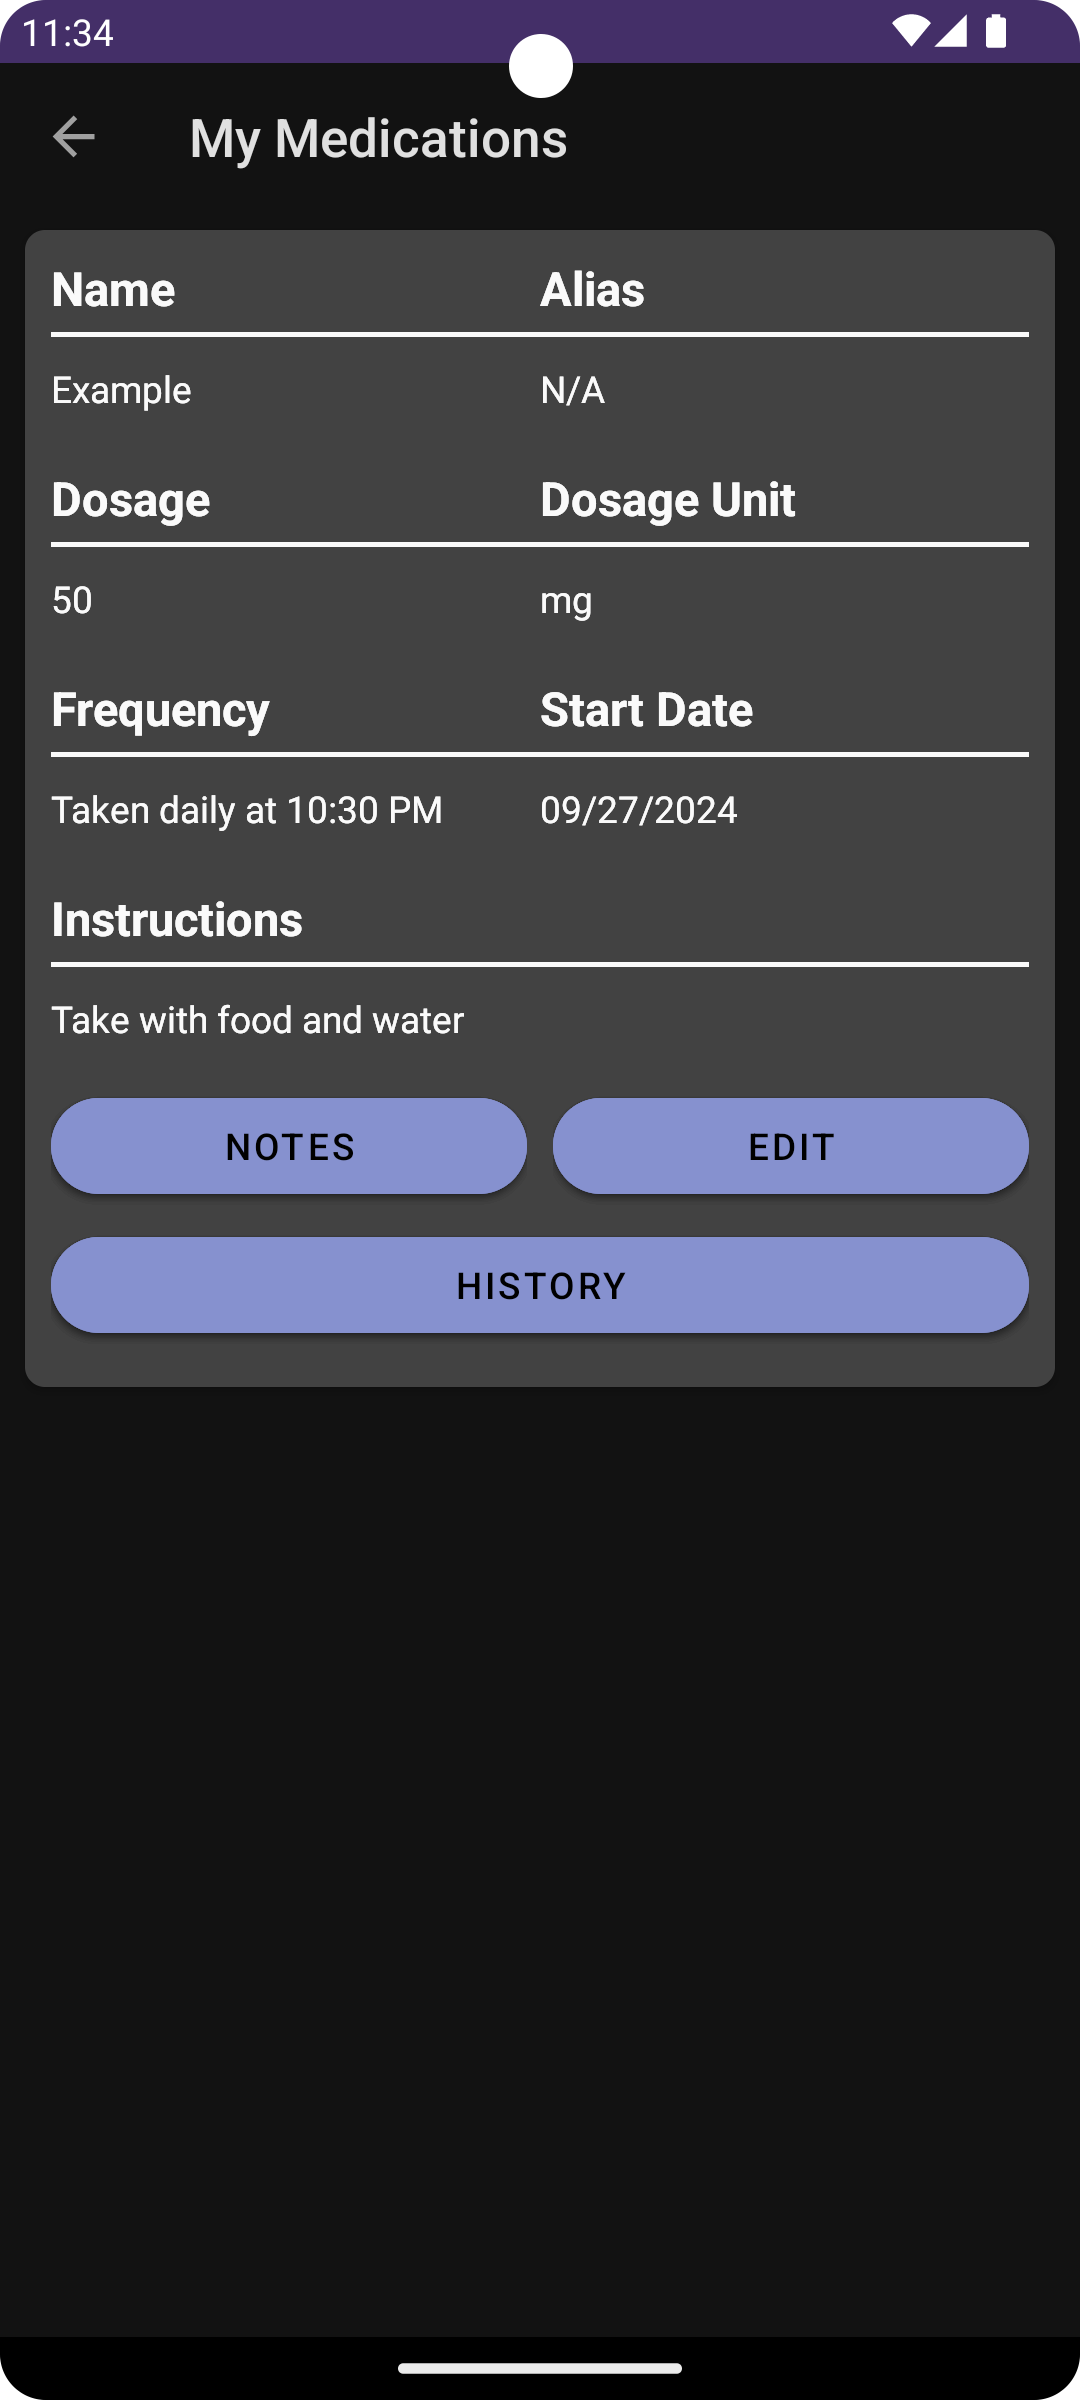
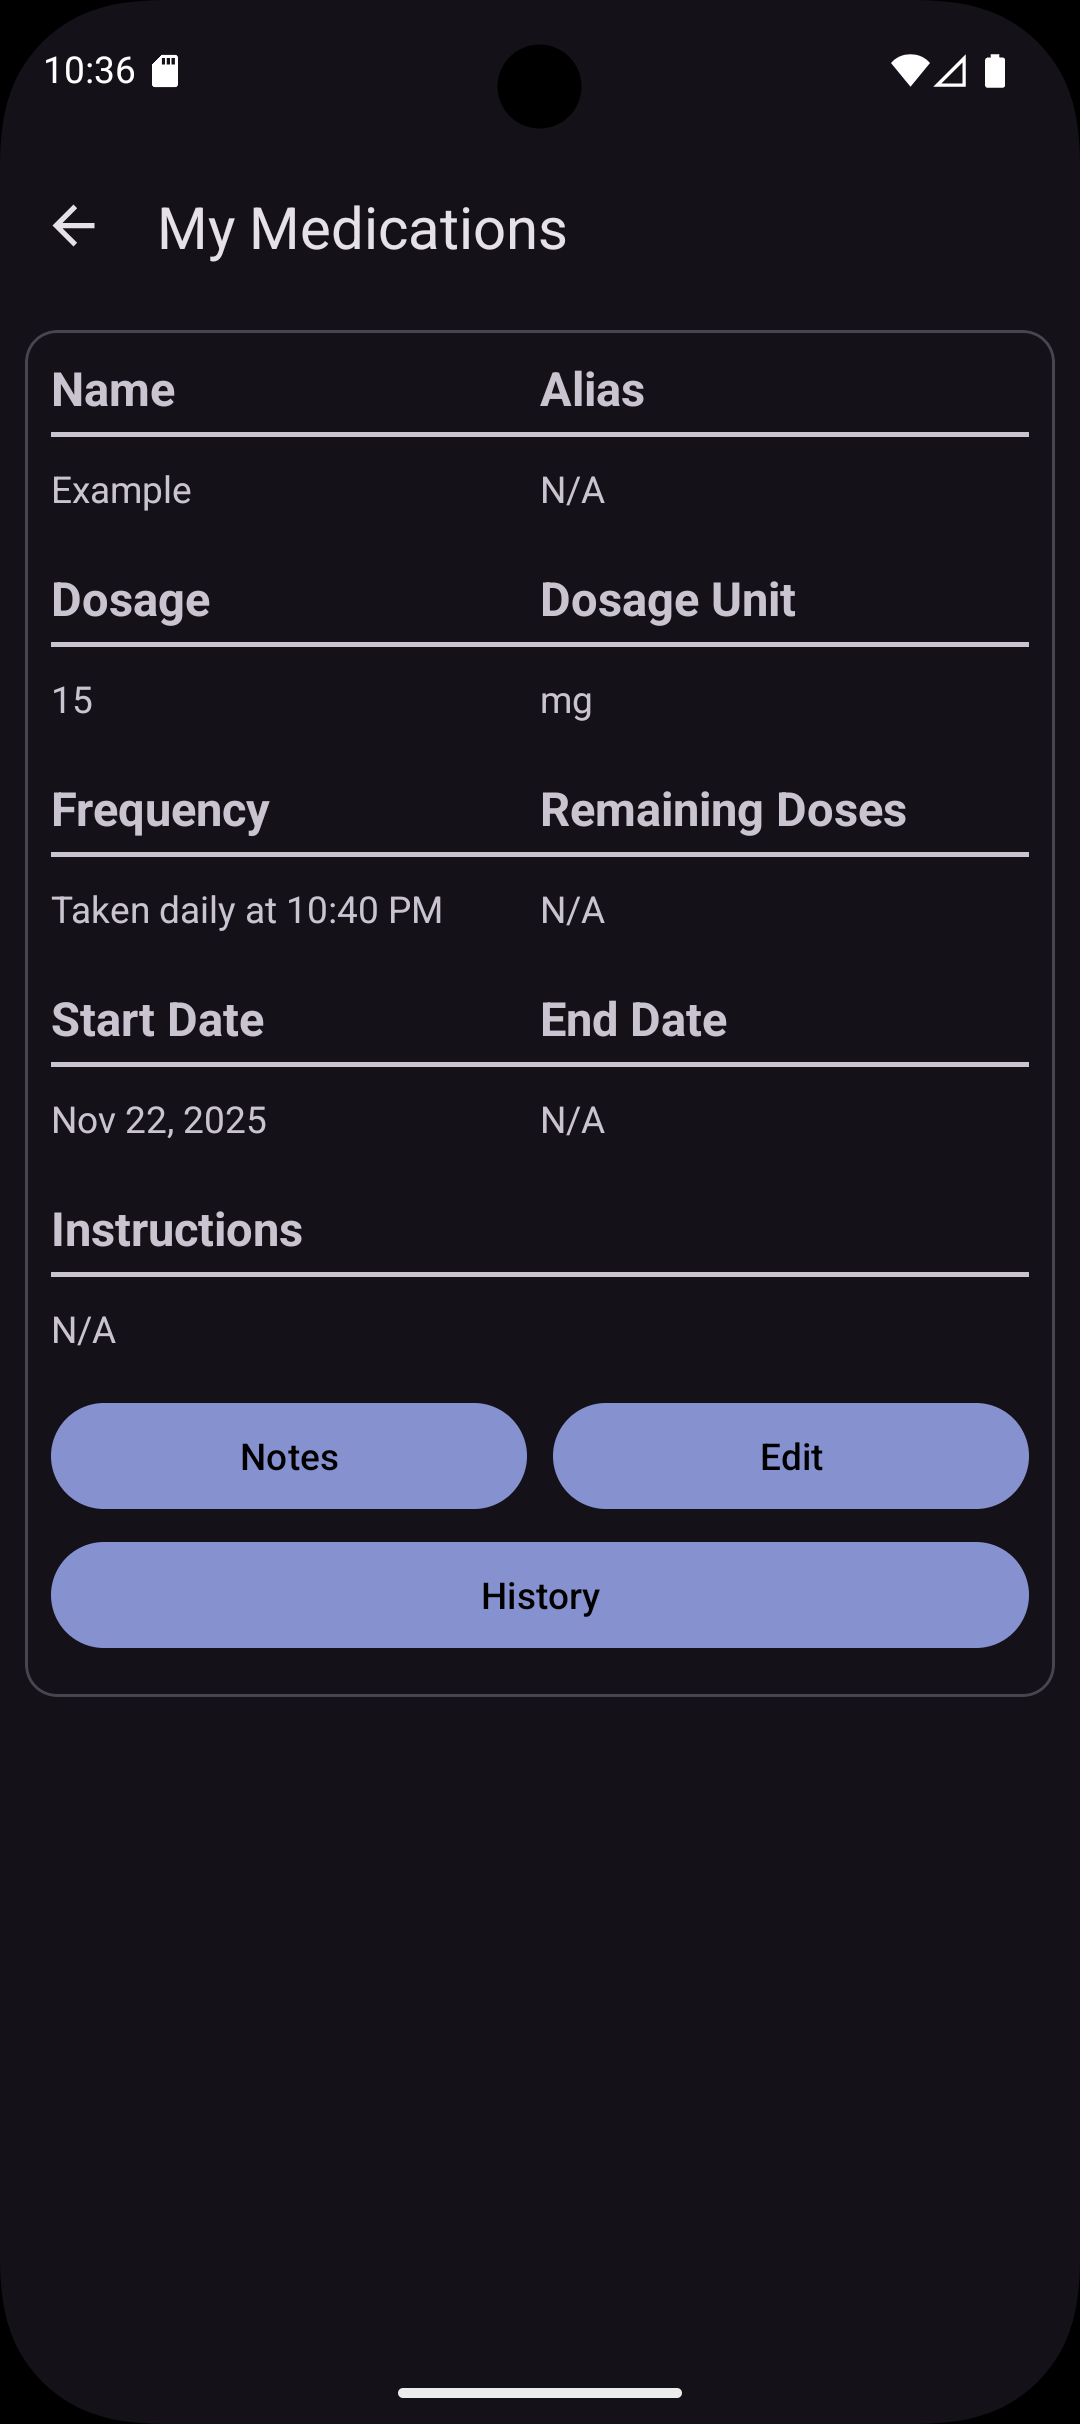
New screenshots

diff --git a/app/src/main/java/projects/medicationtracker/BaseActivity.java b/app/src/main/java/projects/medicationtracker/BaseActivity.java
@@ -1,18 +1,15 @@
 package projects.medicationtracker;
 
 import android.os.Bundle;
-import android.util.TypedValue;
 import android.view.View;
+
+import androidx.activity.EdgeToEdge;
 import androidx.annotation.Nullable;
 import androidx.appcompat.app.AppCompatActivity;
-import androidx.appcompat.widget.Toolbar;
 import androidx.core.graphics.Insets;
 import androidx.core.view.ViewCompat;
 import androidx.core.view.WindowInsetsCompat;
-import androidx.core.view.WindowCompat;
-import androidx.core.view.WindowInsetsControllerCompat;
-import android.content.res.Configuration;
-import android.view.ViewGroup;
+import androidx.activity.ComponentActivity;
 
 /**
  * A simple activity to apply the new edge to edge window insets.
@@ -24,15 +21,7 @@ public class BaseActivity extends AppCompatActivity {
     protected void onCreate(@Nullable Bundle savedInstanceState) {
         super.onCreate(savedInstanceState);
 
-        WindowCompat.setDecorFitsSystemWindows(getWindow(), false);
-        WindowInsetsControllerCompat windowInsetsController =
-                WindowCompat.getInsetsController(getWindow(), getWindow().getDecorView());
-
-        boolean isLightMode = (getResources().getConfiguration().uiMode & Configuration.UI_MODE_NIGHT_MASK)
-                == Configuration.UI_MODE_NIGHT_NO;
-
-        windowInsetsController.setAppearanceLightStatusBars(isLightMode);
-        windowInsetsController.setAppearanceLightNavigationBars(isLightMode);
+        EdgeToEdge.enable(this);
 
         View contentView = findViewById(android.R.id.content);
         if (contentView != null) {
